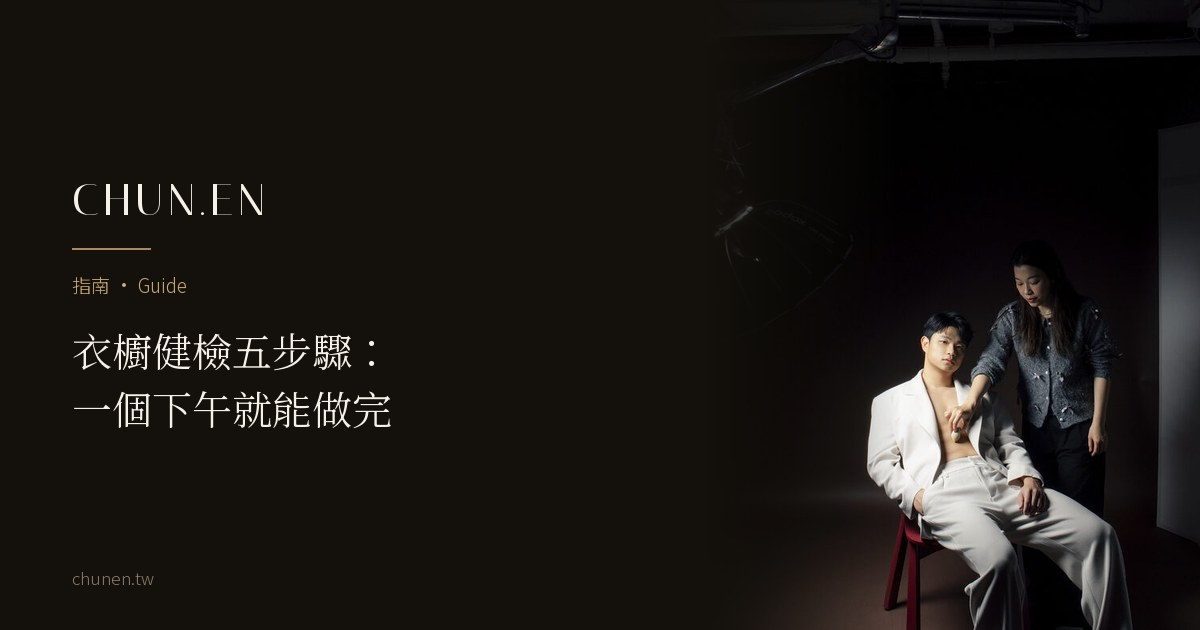
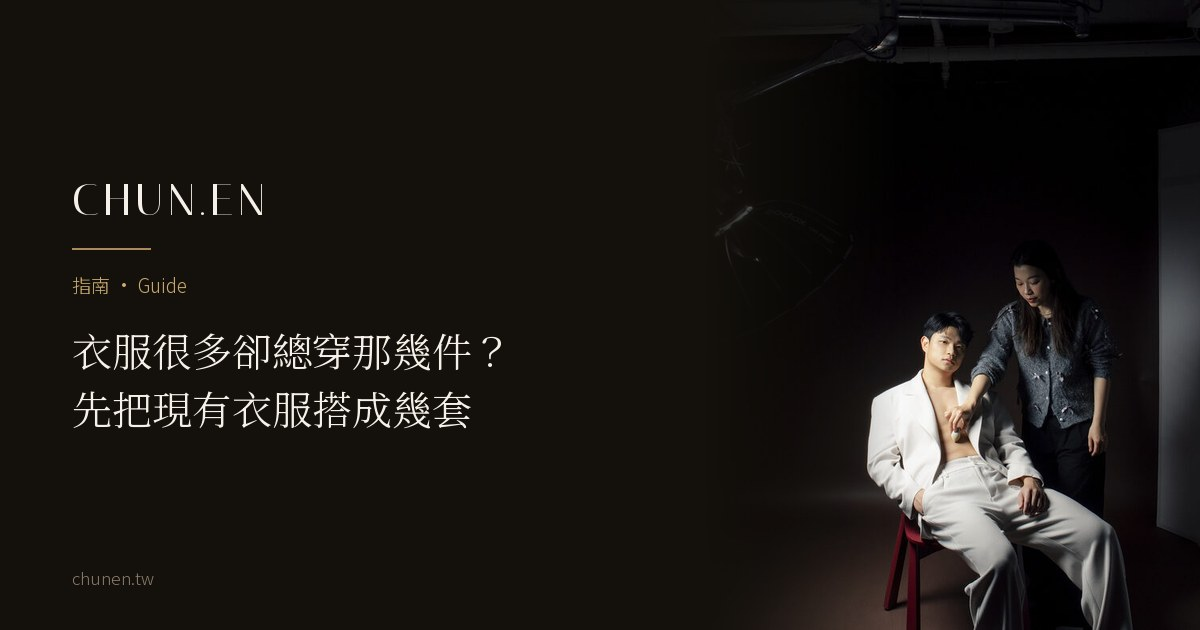
觀點預覽：衣服很多卻總穿那幾件（wardrobe-audit-5-steps 整篇重寫，依校對稿 v2；仍 noindex、未掛列表與 sitemap；主圖暫用舊圖）

Changed region(s): [[0.0617, 0.5127, 0.4317, 0.6937]]

diff --git a/journal/wardrobe-audit-5-steps.html b/journal/wardrobe-audit-5-steps.html
@@ -3,16 +3,16 @@
 <head>
   <meta charset="UTF-8" />
   <meta name="viewport" content="width=device-width, initial-scale=1.0, viewport-fit=cover" />
-  <meta name="robots" content="noindex" /><!-- 草稿：審核後移除此行＋掛列表頁＋入 sitemap -->
-  <title>衣櫥健檢五步驟：一個下午就能做完｜CHUN.EN 觀點</title>
-  <meta name="description" content="衣服很多、能穿的很少，問題不是量，是衣櫥沒有跟著你的角色更新。五個步驟做完一次衣櫥健檢：全部拿出來、三問篩選、按場合重組、找出缺口、建立守門規則。一個下午，換一個能替你工作的衣櫥。" />
+  <title>衣服很多卻總穿那幾件？先把現有衣服搭成幾套｜CHUN.EN 觀點</title>
+  <meta name="description" content="衣櫃很滿，出門還是穿同樣幾套？從少穿的原因、生活場合與實際試穿開始，把現有衣服搭成整套，留下搭配紀錄，再確認修改與添購需求。文中也說明 CHUN.EN 衣櫥健檢的內容與費用。" />
+  <meta name="robots" content="noindex" /><!-- 不公開預覽：user 驗收後以 PUBLIC=1 重建，再掛列表頁＋入 sitemap＋作者頁 -->
   <meta name="theme-color" content="#14100B" />
   <link rel="icon" href="/favicon.ico" sizes="48x48" />
   <link rel="icon" href="/favicon-32.png" type="image/png" sizes="32x32" />
   <link rel="apple-touch-icon" href="/apple-touch-icon.png" />
   <link rel="canonical" href="https://chunen.tw/journal/wardrobe-audit-5-steps.html" />
-  <meta property="og:title" content="衣櫥健檢五步驟：一個下午就能做完" />
-  <meta property="og:description" content="衣服很多、能穿的很少，問題不是量，是衣櫥沒跟著你的角色更新。" />
+  <meta property="og:title" content="衣服很多卻總穿那幾件？先把現有衣服搭成幾套" />
+  <meta property="og:description" content="從少穿的原因、生活場合與實際試穿開始，把現有衣服搭成整套，留下搭配紀錄，再確認修改與添購需求。" />
   <meta property="og:image" content="https://chunen.tw/assets/og/wardrobe-audit-5-steps-og.jpg" />
   <meta property="og:image:width" content="1200" />
   <meta property="og:image:height" content="630" />
@@ -20,14 +20,14 @@
   <meta property="og:type" content="article" />
   <meta property="og:locale" content="zh_TW" />
   <meta name="twitter:card" content="summary_large_image" />
-  <meta name="twitter:title" content="衣櫥健檢五步驟：一個下午就能做完" />
-  <meta name="twitter:description" content="衣服很多、能穿的很少，問題不是量，是角色。" />
+  <meta name="twitter:title" content="衣服很多卻總穿那幾件？先把現有衣服搭成幾套" />
+  <meta name="twitter:description" content="衣服很多卻總穿那幾件：先把現有衣服搭成幾套，再決定還缺什麼。" />
   <meta name="twitter:image" content="https://chunen.tw/assets/og/wardrobe-audit-5-steps-og.jpg" />
   <link rel="preconnect" href="https://fonts.googleapis.com" />
   <link rel="preconnect" href="https://fonts.gstatic.com" crossorigin />
   <link href="https://fonts.googleapis.com/css2?family=Italiana&family=Cormorant+Garamond:ital,wght@0,400;0,500;0,600;1,400;1,500&family=Noto+Serif+TC:wght@300;400&family=Noto+Sans+TC:wght@300;400;500&display=swap" rel="stylesheet" />
   <link rel="stylesheet" href="../v5.css?v=202608021800" />
-  <link rel="stylesheet" href="../sub.css?v=202610261600" />
+  <link rel="stylesheet" href="../sub.css?v=202610281500" />
 </head>
 <body>
 
@@ -70,68 +70,91 @@
     <header style="padding: clamp(9rem, 16vh, 11rem) 0 clamp(2rem, 4vh, 3rem);">
       <div class="wrap article-wrap">
         <p class="hero-eyebrow rv">指南 · Guide</p>
-        <h1 class="rv rv-d1" style="font-weight: 300; font-size: clamp(1.9rem, 4.4vw, 3.2rem); line-height: 1.4; margin-top: 1rem;">衣櫥健檢五步驟：<br>一個下午<em style="font-style:normal;color:var(--gold-light);">就能做完</em></h1>
-        <p class="article-meta rv rv-d2">CHUN.EN 觀點 · 2026 · 閱讀約 5 分鐘</p>
+        <h1 class="rv rv-d1" style="font-weight: 300; font-size: clamp(1.9rem, 4.4vw, 3.2rem); line-height: 1.4; margin-top: 1rem;"><span style="white-space:nowrap;">衣服很多</span><span style="white-space:nowrap;">卻總穿那幾件？</span><span style="white-space:nowrap;"><em style="font-style:normal;color:var(--gold-light);">先把現有衣服</em></span><span style="white-space:nowrap;"><em style="font-style:normal;color:var(--gold-light);">搭成幾套</em></span></h1>
+        <p class="article-meta rv rv-d2">CHUN.EN 觀點 · 2026 · 閱讀約 6 分鐘</p>
       </div>
     </header>
 
     <div class="wrap article-wrap">
-      <div class="jcard-media rv" style="aspect-ratio: 16/9; overflow: hidden; margin-bottom: clamp(2.5rem, 6vh, 4rem);">
-        <picture style="display:block;width:100%;height:100%"><source type="image/webp" srcset="../assets/gallery/bts/checklist-set-760.webp 760w, ../assets/gallery/bts/checklist-set-1240.webp 1240w" sizes="min(940px, calc(100vw - 48px))" /><img src="../assets/gallery/bts/checklist-set-1400.jpg" alt="衣櫥健檢，把衣櫥升級成替你工作的系統" style="width:100%;height:100%;object-fit:cover;object-position:center 20%;" width="1400" height="788" fetchpriority="high" /></picture>
+      <div class="jcard-media rv" style="aspect-ratio: auto; width: auto; max-width: 620px; margin: 0 auto clamp(2.5rem, 6vh, 4rem);">
+        <picture style="display:block"><source type="image/webp" srcset="../assets/gallery/bts/checklist-set-760.webp 760w, ../assets/gallery/bts/checklist-set-1240.webp 1240w" sizes="(max-width: 700px) calc(100vw - 40px), 620px" /><img src="../assets/gallery/bts/checklist-set-1400.jpg" alt="攝影棚內，顧問為坐在紅色椅子上、穿白色西裝的男士調整外套" width="1400" height="788" fetchpriority="high" style="width:100%;height:auto;display:block;" /></picture>
       </div>
 
       <div class="keypoints rv">
         <p class="kp-t">In This Article · 本文重點</p>
         <ul>
-          <li>「衣服很多、能穿的很少」的真因：衣櫥沒有跟著你的角色更新</li>
-          <li>五步驟：全部拿出來 → 三問篩選 → 按場合重組 → 找缺口 → 立守門規則</li>
-          <li>健檢的目的不是丟東西，是讓每天早上少做一百個決定</li>
+          <li>衣服有多少件，和出門時有幾套能穿，是兩回事；先找出少穿的衣服卡在哪裡。</li>
+          <li>從最近會遇到的場合開始，連鞋子和外套一起試，搭出能直接穿出門的整套。</li>
+          <li>把確認合適的搭配拍下來、記下場合，穿過再調整，最後才決定要不要添購。</li>
         </ul>
       </div>
 
       <div class="article-body rv">
-        <p class="article-lead">衣櫥塞滿，但每天早上還是那句：「沒衣服穿。」</p>
-        <p>問題從來不是量。是這個衣櫥累積的是「過去每一個階段的你」，學生時期的、剛出社會的、三年前流行的，<strong>而現在的你的角色，早就往前走了，衣櫥沒跟上。</strong></p>
-        <p>衣櫥健檢就是讓它跟上。五個步驟、一個下午，照著做。</p>
-
-        <h2>五步驟<em>總覽</em></h2>
-        <div class="tbl-scroll">
-        <table>
-          <thead><tr><th>步驟</th><th>做什麼</th><th>時間</th></tr></thead>
-          <tbody>
-            <tr><td>① 全部拿出來</td><td>整個衣櫥清空，鋪在床上，問題要先被看見</td><td>30 分</td></tr>
-            <tr><td>② 三問篩選</td><td>每一件過三個問題，分成「留、修、走」三堆</td><td>90 分</td></tr>
-            <tr><td>③ 按場合重組</td><td>留下的按「出席的場合」歸位，不按款式</td><td>30 分</td></tr>
-            <tr><td>④ 找出缺口</td><td>對照場合清單，寫下真正缺的 3–5 件</td><td>20 分</td></tr>
-            <tr><td>⑤ 立守門規則</td><td>訂下之後買衣服的三條家規</td><td>10 分</td></tr>
-          </tbody>
-        </table>
-        </div>
-
-        <h2>步驟②的核心：<em>三個問題</em></h2>
-        <p>每一件衣服，依序過這三關，任何一關答「否」就往下一堆放：</p>
-        <p><strong>問題一：「現在的我，還會穿它出席重要場合嗎？」</strong>，不是「還穿得下嗎」，是「還代表我嗎」。過不了的，走。</p>
-        <p><strong>問題二：「它合身嗎？」</strong>，肩線對、身側能捏 2–3 公分。喜歡但不合身的，進「修」堆（修改費用常常比你想的便宜，效果比買新的好）。</p>
-        <p><strong>問題三：「過去一年穿過嗎？」</strong>，一年沒穿的，九成不會再穿。例外只有正式禮服類與極少數紀念性單品。</p>
-        <blockquote>衣櫥裡掛的不該是你的歷史，是你接下來要成為的角色。</blockquote>
-
-        <h2>步驟③④：從「款式思維」換成<em>「場合思維」</em></h2>
-        <p>多數衣櫥按款式排（襯衫一區、褲子一區），所以每天早上都在「組裝」。改成按場合排：<strong>重要對外</strong>（提案、演講、拍攝）、<strong>日常工作</strong>、<strong>休閒</strong>三區。排完你會立刻看到真相，多數人的「重要對外」區，只有一兩套能打。</p>
-        <p>這就是步驟④的缺口清單：對照你實際會出席的場合，把缺的寫下來（通常是 3–5 件關鍵單品，不是一整櫃）。之後的採購只買清單上的，這一張紙，就是你治裝費的守門員。挑的原則回到〈<a href="who-do-you-dress-for.html">你的衣服，是穿給自己看，還是穿給客戶看？</a>〉：先想讀的人，再選穿的衣。</p>
-
-        <h2>步驟⑤：三條<em>守門家規</em></h2>
-        <p><strong>一進一出</strong>，買一件新的，走一件舊的，總量不再長。<strong>不在缺口清單上的不買</strong>，「好看」不是理由，「補位」才是。<strong>買前問一次「它能配衣櫥裡的三件嗎」</strong>，配不了三件的單品，再美都是孤兒。</p>
-        <p>做完這五步，你得到的不是比較空的衣櫥，是一個<strong>替你工作的系統</strong>：每天早上少做一百個決定，每個重要場合都有現成的答案。想把這件事做到專業級，連色彩、體型、角色定位一起盤，甚至有人陪你把「修」堆送去改、把缺口一次補齊，這正是 <a href="../a-voir.html">À Voir 服裝策略</a>的日常。</p>
+        <p class="article-lead">早上打開衣櫃，掛得滿滿的，最後拿出來的還是那幾件。有些衣服穿起來不舒服，有些已經不符合現在的生活，也有些明明喜歡、穿起來合適，卻一直不知道要怎麼搭。</p>
+        <p>如果你想多穿到衣櫃裡的衣服，可以先從常穿的幾件找線索，確認其他衣服少穿的原因，再依最近會遇到的場合，試出幾套能直接穿出門的搭配。</p>
+        <h2>衣服很多，和有幾套能直接穿出門，是兩回事</h2>
+        <p>2025 年發表的一項比利時研究，在 2024 年到 156 位受訪者家中清點衣物。按年齡與性別加權後，平均每人有 198 件衣服，其中約 22% 在過去 12 個月沒有穿過。<a href="https://doi.org/10.55845/OQEE5977" style="color: var(--gold-light);" target="_blank" rel="noopener">研究 1</a></p>
+        <p>研究另外分析了 133 位受訪者的未穿衣物，其中約 75% 被受訪者評為狀況良好，仍具再使用條件。<a href="https://doi.org/10.55845/OQEE5977" style="color: var(--gold-light);" target="_blank" rel="noopener">研究 1</a></p>
+        <p>台灣也有相關調查。綠色和平於 2016 年針對 1,000 位 20 至 45 歲民眾進行網路調查，受訪者平均有 75 件衣服，其中 15 件幾乎沒在穿。<a href="https://www.greenpeace.org/taiwan/press/4463/" style="color: var(--gold-light);" target="_blank" rel="noopener">研究 2</a></p>
+        <p>固定穿同樣幾套，可以是你喜歡的方式。值得整理的，是你想換個穿法、準備新的場合，卻不知道現有衣服能怎麼搭的時候。</p>
+        <h2>先看看，那些衣服為什麼沒在穿</h2>
+        <p>在這份比利時研究對未穿衣物的分析中，常見原因包括不符合現在的風格、穿起來不舒服、沒有適合的場合，以及平常優先穿別件、將它留作備用。<a href="https://doi.org/10.55845/OQEE5977" style="color: var(--gold-light);" target="_blank" rel="noopener">研究 1</a></p>
+        <p>整理自己的衣櫃時，可以從下面四種情況找線索：</p>
+        <p><em style="font-style:normal;color:var(--gold-light);">穿起來不舒服或不合身。</em> 尺寸變了、長度不合、材質會癢，或坐下會緊。先確認問題能不能透過修改處理；如果仍然不舒服，就不必勉強放進日常搭配。</p>
+        <p><em style="font-style:normal;color:var(--gold-light);">風格變了。</em> 衣服本身沒問題，只是跟現在的工作、生活方式或想呈現的樣子對不上。</p>
+        <p><em style="font-style:normal;color:var(--gold-light);">暫時沒有場合。</em> 正式套裝、禮服或旅行時才會用到的衣服，可能一年只穿幾次。先記下用途，再看看它是否仍然合身、符合需要。</p>
+        <p><em style="font-style:normal;color:var(--gold-light);">還沒找到能搭在一起的組合。</em> 衣服合身、喜歡，也有場合可以穿，卻總想不出要配哪一件。</p>
+        <p>這幾種情況可能同時發生。先確認衣服本身有沒有需要處理的地方，再透過試搭，看看它能不能符合現在的風格與場合。接下來的五個步驟，會從常穿的衣服開始，把還願意穿、也有機會用到的單品搭成整套。</p>
+        <h2>從常穿的幾件開始，把現有衣服搭成整套</h2>
+        <p>先選最近會遇到的場合，從幾件衣服開始試搭。每次整理出幾套可以穿的組合，就有了下一次搭配的起點。</p>
+        <h3 style="margin-top:1.8rem;font-size:1.15rem;font-weight:400;color:var(--gold-light);">步驟 1｜選出最近會遇到的場合</h3>
+        <p>挑目前最困擾的兩三種場合，例如日常上班、拜訪客戶、週末外出、朋友聚餐。</p>
+        <p>同時記下當天實際要做什麼：會不會久坐、要不要走很多路、需不需要外套，有沒有明確的服裝要求。同樣是上班，整天開會和整天跑外勤，對衣服的需求就可能不同。</p>
+        <h3 style="margin-top:1.8rem;font-size:1.15rem;font-weight:400;color:var(--gold-light);">步驟 2｜從常穿的衣服找線索，再試幾件少穿的</h3>
+        <p>先看常穿的那幾件，想想自己為什麼會反覆穿它們。可能是舒服、合身、好整理、適合場合，或你早就知道它要怎麼搭。這些理由，可以幫你看清楚自己挑衣服時在意的條件。</p>
+        <p>接著拿幾件少穿的衣服實際穿上，把衣況與搭配情形一起記下來：</p>
+        <table><thead><tr><th style="white-space:nowrap;">衣服目前的狀況</th><th>接下來做什麼</th></tr></thead><tbody><tr><td>可以直接穿，已經有常用的搭配</td><td>先記下這一套，當成其他試搭的起點</td></tr><tr><td>可以直接穿，還沒找到合適的組合</td><td>跟常穿的單品一起試搭</td></tr><tr><td>需要清潔、修補或修改</td><td>記下要處理的地方，處理完再試</td></tr><tr><td>暫時不適合現在的需求</td><td>記下原因和可能的用途，之後再決定去留</td></tr></tbody></table>
+        <h3 style="margin-top:1.8rem;font-size:1.15rem;font-weight:400;color:var(--gold-light);">步驟 3｜試一整套，連鞋子和外套一起穿</h3>
+        <p>拿一件少穿的上衣，配上常穿的褲子或裙子，再穿上實際會用的鞋子和外套。</p>
+        <p>穿好後，先看這一套是否適合準備去的場合，再坐下、走動，確認有沒有緊繃或不方便的地方。衣服掛在一起好看，穿上身未必有同樣的效果；連鞋子和外套一起試，也能看清整體比例。</p>
+        <h2>把試過的搭配留下來，下次才找得到</h2>
+        <p>試出合適的搭配後，把它記下來。下次趕著出門，就能直接找到已經試好的穿法。</p>
+        <h3 style="margin-top:1.8rem;font-size:1.15rem;font-weight:400;color:var(--gold-light);">步驟 4｜拍下確認合適的搭配，記下場合與穿法</h3>
+        <p>先把已經試穿、確認合適的搭配拍下來，照片要看得到整套，再簡單記下：</p>
+        <ul>
+          <li>適合的場合</li>
+          <li>搭配的鞋子、外套與必要配件</li>
+          <li>適合的天氣或溫度</li>
+          <li>需要注意的穿法</li>
+        </ul>
+        <p>放在你平常找得到、願意打開的地方就好，手機相簿的專屬資料夾、筆記，或線上衣櫥都可以。先記下幾套試好的搭配，之後再慢慢增加。</p>
+        <h3 style="margin-top:1.8rem;font-size:1.15rem;font-weight:400;color:var(--gold-light);">步驟 5｜穿出門後再調整，確認是否需要添購</h3>
+        <p>實際穿出門後，再記下哪些地方好穿、哪些需要調整，並更新搭配紀錄。</p>
+        <p>如果某個場合還是沒有合適的搭配，就回頭看：現有衣服是否需要修改、還有沒有其他組合可以試，或確實缺少某一類衣服。確認缺口後，再列添購清單。挑新衣服時，可以帶著現有搭配的照片，確認新單品要和哪些衣服一起穿。</p>
+        <p>這五個步驟可以先在家自己做。若要進一步判斷顏色、版型和材質，則要把身形、生活場合、想呈現的風格與實際穿著效果一起看。</p>
+        <h2>CHUN.EN 的衣櫥健檢會做什麼</h2>
+        <p>CHUN.EN À Voir 的衣櫥健檢，以現有衣物與實際穿搭需求為主。顧問會依你的身形、穿著習慣與使用場合，檢視哪些衣服值得保留、可以調整或需要補齊，整理成單品清單，並說明現有衣服的搭配方式。</p>
+        <p>服務約 4 小時，以到府為主，直接檢視你平常穿的衣服；衣物量少的話，也可以安排到台中勤美店。費用 NT$18,800 起，實際費用依地點確認。衣櫥健檢可以單獨委託，也可以併入形象策略企劃。</p>
+        <p>服務內容可參閱 <a href="../a-voir.html" style="color: var(--gold-light);">À Voir 形象顧問與穿搭規劃</a>。</p>
 
         <h2>常見<em>問題</em></h2>
         <div class="faq">
-          <details><summary>「走」的那一堆，直接丟掉嗎？<span class="mark">+</span></summary><div class="a">不必急著丟。裝箱寫上日期收起來，三個月內沒去開過箱，就捐出或回收，給自己一個後悔緩衝期，篩選時下手才敢果斷。真正的原則是：它們不能回到衣櫥。</div></details>
-          <details><summary>捨不得的衣服很多，篩不下去怎麼辦？<span class="mark">+</span></summary><div class="a">把問題一換個問法：「如果今天在店裡看到它，我會用原價再買一次嗎？」不會的話，你留的不是衣服，是當初花掉的錢，而那筆錢不管留不留都回不來了。紀念性單品另設一個「紀念箱」，不佔衣櫥。</div></details>
-          <details><summary>多久該做一次健檢？<span class="mark">+</span></summary><div class="a">常規一年一次（換季時順手做）；另外兩個時機必做：角色轉換時（升遷、創業、轉行，衣櫥要跟著新角色走）、體型明顯變化後。</div></details>
+          <details><summary>衣服很多，要先丟掉一些嗎？<span class="mark">+</span></summary><div class="a">不用急著丟。先確認衣服的狀況、用途和能不能搭，再決定去留。少穿不等於不適合，有些衣服只是還沒找到搭配，或一年本來就只用幾次。</div></details>
+          <details><summary>一定要買新衣服，才搭得出不同風格嗎？<span class="mark">+</span></summary><div class="a">不一定。先用現有的衣服試搭，如果某個場合仍缺少合身、正式程度也合適的單品，再針對實際缺口添購。</div></details>
+          <details><summary>可以請顧問到家裡檢視衣物、協助搭配嗎？<span class="mark">+</span></summary><div class="a">可以。CHUN.EN 的衣櫥健檢以到府為主，顧問會依你的身形、穿著習慣與使用場合檢視現有衣物，整理值得保留、可以調整與需要補齊的單品，並說明現有衣服的搭配方式。</div></details>
+          <details><summary>衣櫥健檢要多久？費用多少？<span class="mark">+</span></summary><div class="a">CHUN.EN 衣櫥健檢約 4 小時，費用 NT$18,800 起，以到府為主，實際費用依地點確認。</div></details>
+          <details><summary>一定要用 App 或線上衣櫥記錄搭配嗎？<span class="mark">+</span></summary><div class="a">不一定。只要下次找得到，整套照片加上簡單的場合註記就夠了。重點是記下已經試穿、確認合適的搭配，用自己方便查看的工具即可。</div></details>
+          <details><summary>新買的衣服，怎麼跟原本的衣服搭配？<span class="mark">+</span></summary><div class="a">先跟現有的單品實際穿成一整套，確認場合和舒適度，再把這套加進你的搭配紀錄。</div></details>
         </div>
 
-      </div>
+        <details class="refs"><summary><h2>參考<em>資料</em></h2><span class="mark">+</span></summary>
+        <ol style="font-size:0.9em;line-height:1.9;color:var(--paper-dim);word-break:break-word;">
+          <li>Vermeyen 等（2025），<a href="https://doi.org/10.55845/OQEE5977" style="color: var(--gold-light);" target="_blank" rel="noopener">Behind Closed Doors: Examining the Stock of Clothing in Individuals’ Wardrobes</a>，Journal of Circular Economy, 3(1)。資料於 2024 年蒐集，衣物數量與使用情況見 Table 2；衣況與未穿原因見 Table 3，後者分析 133 位受訪者的 5,816 件未穿衣物。研究的衣物範圍不含內衣、泳裝、鞋子與配件。</li>
+          <li>綠色和平（2016），<a href="https://www.greenpeace.org/taiwan/press/4463/" style="color: var(--gold-light);" target="_blank" rel="noopener">全臺每年丟棄520萬件衣服　綠色和平呼籲「減法生活」</a>。本文引用其中針對 1,000 位 20 至 45 歲民眾進行的網路調查。</li>
+        </ol>
+        </details>
 
+      </div>
       <div class="author-card rv">
         <picture>
           <source type="image/webp" srcset="../assets/images/zoey-author-640.webp" />
@@ -139,16 +162,16 @@
         </picture>
         <div>
           <p class="ac-name"><a href="../author/zoey-wu.html">吳惇恩<em>Zoey Wu</em></a></p>
-          <p class="ac-role">CHUN.EN 創辦人暨品牌主理人・服裝設計師</p>
+          <p class="ac-role">CHUN.EN 創辦人暨品牌主理人</p>
           <p class="ac-bio">服裝設計師出身，歷經台灣、上海與廣州共 10 年設計工作，其後投入造型領域逾 14 年。以商業視覺定位為核心，統整服裝、妝髮與影像，協助專業工作者與企業領導者，建立一致、清楚且有系統的專業形象。</p>
         </div>
       </div>
 
       <div class="related rv">
         <p class="related-t">相關閱讀 · Related</p>
-        <a href="who-do-you-dress-for.html">你的衣服，是穿給自己看，還是穿給客戶看？</a>
-        <a href="body-type-business-dressing.html">微胖、嬌小、高瘦：商務穿搭的體型修飾指南</a>
-        <a href="quiet-luxury-professional.html">安靜的高級感：Quiet Luxury 對專業形象的啟示</a>
+        <a href="lunar-new-year-outfit.html">過年穿搭怎麼準備？從拜年、聚餐到走春，搭好這幾天要穿的衣服</a>
+        <a href="wedding-guest-outfit.html">參加婚禮怎麼穿？男女穿搭、冬季外套與親友妝髮怎麼準備</a>
+        <a href="date-outfit.html">約會穿什麼？第一次約會、晚餐到戶外，穿搭與妝髮怎麼準備</a>
       </div>
 
       <p class="rv" style="margin-top: 2.5rem;"><a href="/journal/" style="color: var(--muted-bright); font-size: 0.85rem; letter-spacing: 0.1em;">← 回到專欄</a></p>
@@ -175,15 +198,33 @@
   {
     "@context": "https://schema.org",
     "@type": "Article",
-    "headline": "衣櫥健檢五步驟：一個下午就能做完",
-    "description": "衣服很多、能穿的很少，因為衣櫥沒跟著角色更新。五步驟：清空、三問篩選、按場合重組、找缺口、立守門規則。",
+    "headline": "衣服很多卻總穿那幾件？先把現有衣服搭成幾套",
+    "description": "衣櫃很滿，出門還是穿同樣幾套？從少穿的原因、生活場合與實際試穿開始，把現有衣服搭成整套，留下搭配紀錄，再確認修改與添購需求。文中也說明 CHUN.EN 衣櫥健檢的內容與費用。",
     "image": "https://chunen.tw/assets/gallery/bts/checklist-set-1400.jpg",
-    "author": {"@type": "Person", "@id": "https://chunen.tw/author/zoey-wu.html#zoey", "name": "吳惇恩", "alternateName": "Zoey Wu", "jobTitle": "Founder & Brand Director", "image": "https://chunen.tw/assets/images/zoey-author-640.jpg", "url": "https://chunen.tw/author/zoey-wu.html"},
-    "publisher": {"@type": "Organization", "@id": "https://chunen.tw/#business", "name": "CHUN.EN 形象美學", "logo": {"@type": "ImageObject", "url": "https://chunen.tw/icon-512.png"}},
-    "datePublished": "2026-07-21",
-    "dateModified": "2026-07-21",
+    "author": {
+      "@type": "Person",
+      "@id": "https://chunen.tw/author/zoey-wu.html#zoey",
+      "name": "吳惇恩",
+      "alternateName": "Zoey Wu",
+      "jobTitle": "Founder & Brand Director",
+      "image": "https://chunen.tw/assets/images/zoey-author-640.jpg",
+      "url": "https://chunen.tw/author/zoey-wu.html"
+    },
+    "publisher": {
+      "@type": "Organization",
+      "@id": "https://chunen.tw/#business",
+      "name": "CHUN.EN 形象美學",
+      "logo": {
+        "@type": "ImageObject",
+        "url": "https://chunen.tw/icon-512.png"
+      }
+    },
+    "datePublished": "2026-11-25",
+    "dateModified": "2026-11-25",
     "inLanguage": "zh-Hant-TW",
-    "isPartOf": {"@id": "https://chunen.tw/#website"},
+    "isPartOf": {
+      "@id": "https://chunen.tw/#website"
+    },
     "mainEntityOfPage": "https://chunen.tw/journal/wardrobe-audit-5-steps.html"
   }
   </script>
@@ -195,10 +236,55 @@
     "@context": "https://schema.org",
     "@type": "FAQPage",
     "mainEntity": [
-      {"@type": "Question", "name": "「走」的那一堆，直接丟掉嗎？", "acceptedAnswer": {"@type": "Answer", "text": "不必急著丟。裝箱寫上日期收起來，三個月內沒去開過箱，就捐出或回收，給自己一個後悔緩衝期，篩選時下手才敢果斷。真正的原則是：它們不能回到衣櫥。"}},
-      {"@type": "Question", "name": "捨不得的衣服很多，篩不下去怎麼辦？", "acceptedAnswer": {"@type": "Answer", "text": "把問題一換個問法：「如果今天在店裡看到它，我會用原價再買一次嗎？」不會的話，你留的不是衣服，是當初花掉的錢，而那筆錢不管留不留都回不來了。紀念性單品另設一個「紀念箱」，不佔衣櫥。"}},
-      {"@type": "Question", "name": "多久該做一次健檢？", "acceptedAnswer": {"@type": "Answer", "text": "常規一年一次（換季時順手做）；另外兩個時機必做：角色轉換時（升遷、創業、轉行，衣櫥要跟著新角色走）、體型明顯變化後。"}}
-    ]
+  {
+    "@type": "Question",
+    "name": "衣服很多，要先丟掉一些嗎？",
+    "acceptedAnswer": {
+      "@type": "Answer",
+      "text": "不用急著丟。先確認衣服的狀況、用途和能不能搭，再決定去留。少穿不等於不適合，有些衣服只是還沒找到搭配，或一年本來就只用幾次。"
+    }
+  },
+  {
+    "@type": "Question",
+    "name": "一定要買新衣服，才搭得出不同風格嗎？",
+    "acceptedAnswer": {
+      "@type": "Answer",
+      "text": "不一定。先用現有的衣服試搭，如果某個場合仍缺少合身、正式程度也合適的單品，再針對實際缺口添購。"
+    }
+  },
+  {
+    "@type": "Question",
+    "name": "可以請顧問到家裡檢視衣物、協助搭配嗎？",
+    "acceptedAnswer": {
+      "@type": "Answer",
+      "text": "可以。CHUN.EN 的衣櫥健檢以到府為主，顧問會依你的身形、穿著習慣與使用場合檢視現有衣物，整理值得保留、可以調整與需要補齊的單品，並說明現有衣服的搭配方式。"
+    }
+  },
+  {
+    "@type": "Question",
+    "name": "衣櫥健檢要多久？費用多少？",
+    "acceptedAnswer": {
+      "@type": "Answer",
+      "text": "CHUN.EN 衣櫥健檢約 4 小時，費用 NT$18,800 起，以到府為主，實際費用依地點確認。"
+    }
+  },
+  {
+    "@type": "Question",
+    "name": "一定要用 App 或線上衣櫥記錄搭配嗎？",
+    "acceptedAnswer": {
+      "@type": "Answer",
+      "text": "不一定。只要下次找得到，整套照片加上簡單的場合註記就夠了。重點是記下已經試穿、確認合適的搭配，用自己方便查看的工具即可。"
+    }
+  },
+  {
+    "@type": "Question",
+    "name": "新買的衣服，怎麼跟原本的衣服搭配？",
+    "acceptedAnswer": {
+      "@type": "Answer",
+      "text": "先跟現有的單品實際穿成一整套，確認場合和舒適度，再把這套加進你的搭配紀錄。"
+    }
+  }
+]
   }
   </script>
 
@@ -207,9 +293,24 @@
     "@context": "https://schema.org",
     "@type": "BreadcrumbList",
     "itemListElement": [
-      {"@type": "ListItem", "position": 1, "name": "首頁", "item": "https://chunen.tw/"},
-      {"@type": "ListItem", "position": 2, "name": "專欄", "item": "https://chunen.tw/journal/"},
-      {"@type": "ListItem", "position": 3, "name": "衣櫥健檢五步驟：一個下午就能做完", "item": "https://chunen.tw/journal/wardrobe-audit-5-steps.html"}
+      {
+        "@type": "ListItem",
+        "position": 1,
+        "name": "首頁",
+        "item": "https://chunen.tw/"
+      },
+      {
+        "@type": "ListItem",
+        "position": 2,
+        "name": "專欄",
+        "item": "https://chunen.tw/journal/"
+      },
+      {
+        "@type": "ListItem",
+        "position": 3,
+        "name": "衣服很多卻總穿那幾件？先把現有衣服搭成幾套",
+        "item": "https://chunen.tw/journal/wardrobe-audit-5-steps.html"
+      }
     ]
   }
   </script>
